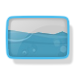
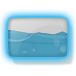
updated some images and deleted some old ones
disable the screen while saving wad to sd because idiots were misusing it and breaking shit

change the exit prompt so you can exit to HBC even if you didn't came from there

Changed region(s): [[0.0, 0.1316, 1.0, 0.8421]]

diff --git a/source/prompts/ProgressWindow.cpp b/source/prompts/ProgressWindow.cpp
@@ -24,6 +24,7 @@ static char progressMsg1[150];
 static char progressMsg2[150];
 static char progressTime[80];
 static char progressSizeLeft[80];
+static char progressSpeed[15];
 static int showProgress = 0;
 static f32 progressDone = 0.0;
 static bool showTime = false;
@@ -84,7 +85,9 @@ static void GameInstallProgress() {
     progressDone = 100.0*gameinstalldone/gameinstalltotal;
 
     snprintf(progressTime, sizeof(progressTime), "%s %d:%02d:%02d",tr("Time left:"),h,m,s);
-    snprintf(progressSizeLeft, sizeof(progressSizeLeft), "%.2fGB/%.2fGB %.1fMB/s", gamesize * gameinstalldone/gameinstalltotal, gamesize, speed);
+    snprintf(progressSizeLeft, sizeof(progressSizeLeft), "%.2fGB/%.2fGB", gamesize * gameinstalldone/gameinstalltotal, gamesize);
+	 snprintf(progressSpeed, sizeof(progressSpeed), "%.1fMB/s", speed);
+
 }
 
 /****************************************************************************
@@ -155,7 +158,7 @@ static void ProgressWindow(const char *title, const char *msg1, const char *msg2
 	titleTxt.SetAlignment(ALIGN_CENTRE, ALIGN_TOP);
 	titleTxt.SetPosition(0,60);
 
-	GuiText msg1Txt(msg1, 26, (GXColor){THEME.prompttxt_r, THEME.prompttxt_g, THEME.prompttxt_b, 255});
+	GuiText msg1Txt(msg1, 22, (GXColor){THEME.prompttxt_r, THEME.prompttxt_g, THEME.prompttxt_b, 255});
 	msg1Txt.SetAlignment(ALIGN_CENTRE, ALIGN_TOP);
 	if(msg2)
         msg1Txt.SetPosition(0,120);
@@ -163,22 +166,26 @@ static void ProgressWindow(const char *title, const char *msg1, const char *msg2
         msg1Txt.SetPosition(0,100);
 	msg1Txt.SetMaxWidth(430, GuiText::DOTTED);
 
-	GuiText msg2Txt(msg2, 26, (GXColor){THEME.prompttxt_r, THEME.prompttxt_g, THEME.prompttxt_b, 255});
+	GuiText msg2Txt(msg2, 22, (GXColor){THEME.prompttxt_r, THEME.prompttxt_g, THEME.prompttxt_b, 255});
 	msg2Txt.SetAlignment(ALIGN_CENTRE, ALIGN_TOP);
 	msg2Txt.SetPosition(0,125);
 	msg2Txt.SetMaxWidth(430, GuiText::DOTTED);
 
-    GuiText prsTxt("%", 26, (GXColor){THEME.prompttxt_r, THEME.prompttxt_g, THEME.prompttxt_b, 255});
+    GuiText prsTxt("%", 22, (GXColor){THEME.prompttxt_r, THEME.prompttxt_g, THEME.prompttxt_b, 255});
 	prsTxt.SetAlignment(ALIGN_RIGHT, ALIGN_MIDDLE);
 	prsTxt.SetPosition(-188,40);
 
-    GuiText timeTxt(NULL, 24, (GXColor){THEME.prompttxt_r, THEME.prompttxt_g, THEME.prompttxt_b, 255});
+    GuiText timeTxt(NULL, 22, (GXColor){THEME.prompttxt_r, THEME.prompttxt_g, THEME.prompttxt_b, 255});
     timeTxt.SetAlignment(ALIGN_LEFT, ALIGN_BOTTOM);
 	timeTxt.SetPosition(280,-50);
 
-    GuiText sizeTxt(NULL, 24, (GXColor){THEME.prompttxt_r, THEME.prompttxt_g, THEME.prompttxt_b, 255});
+    GuiText sizeTxt(NULL, 22, (GXColor){THEME.prompttxt_r, THEME.prompttxt_g, THEME.prompttxt_b, 255});
     sizeTxt.SetAlignment(ALIGN_LEFT, ALIGN_BOTTOM);
-	sizeTxt.SetPosition(35, -50);
+	sizeTxt.SetPosition(50, -50);
+
+	 GuiText speedTxt(NULL, 22, (GXColor){THEME.prompttxt_r, THEME.prompttxt_g, THEME.prompttxt_b, 255});
+    speedTxt.SetAlignment(ALIGN_LEFT, ALIGN_BOTTOM);
+	speedTxt.SetPosition(50, -74);
 
 	GuiText prTxt(NULL, 26, (GXColor){THEME.prompttxt_r, THEME.prompttxt_g, THEME.prompttxt_b, 255});
 	prTxt.SetAlignment(ALIGN_LEFT, ALIGN_MIDDLE);
@@ -195,6 +202,8 @@ static void ProgressWindow(const char *title, const char *msg1, const char *msg2
 
 		timeTxt.SetPosition(250,-50);
 		timeTxt.SetFontSize(20);
+		speedTxt.SetPosition(90,-74);
+		speedTxt.SetFontSize(20);
 		sizeTxt.SetPosition(90, -50);
 		sizeTxt.SetFontSize(20);
 	}
@@ -217,8 +226,10 @@ static void ProgressWindow(const char *title, const char *msg1, const char *msg2
 		promptWindow.Append(&msg2Txt);
 	if(showTime)
         promptWindow.Append(&timeTxt);
-    if(showSize)
+    if(showSize){
         promptWindow.Append(&sizeTxt);
+		  promptWindow.Append(&speedTxt);
+		  }
 
 	HaltGui();
 	promptWindow.SetEffect(EFFECT_SLIDE_TOP | EFFECT_SLIDE_IN, 50);
@@ -249,8 +260,10 @@ static void ProgressWindow(const char *title, const char *msg1, const char *msg2
 
         prTxt.SetTextf("%.2f", progressDone);
 
-        if(showSize)
+        if(showSize){
             sizeTxt.SetText(progressSizeLeft);
+				speedTxt.SetText(progressSpeed);
+				}
         if(showTime)
             timeTxt.SetText(progressTime);
 	}

diff --git a/source/homebrewboot/HomebrewBrowse.cpp b/source/homebrewboot/HomebrewBrowse.cpp
@@ -864,14 +864,47 @@ int MenuHomebrewBrowse()
 									//if we got a wad
 									if(strstr(tmptxt,".wad") || strstr(tmptxt,".WAD"))
 									{	
-										//what do we want to do with the wad
-										int pick = WindowPrompt(tr("Received:"), tmptxt, tr("Install"),tr("Uninstall"),tr("Cancel"));
-										//save that biatch to the wad folder	
+									
+									//make a window come up and say that we are saving this file
+									//because stupid people were clicking buttons while it was saving and tearing stuff up
+										GuiWindow promptWindow(472,320);
+										promptWindow.SetAlignment(ALIGN_CENTRE, ALIGN_MIDDLE);
+										promptWindow.SetPosition(0, -10);
+										//char imgPath[100];
+										snprintf(imgPath, sizeof(imgPath), "%sdialogue_box.png", CFG.theme_path);
+										GuiImageData dialogBox(imgPath, dialogue_box_png);
+										GuiImage dialogBoxImg(&dialogBox);
+										if (Settings.wsprompt == yes){
+										dialogBoxImg.SetWidescreen(CFG.widescreen);}
+										GuiText msgTxt(tr("Saving"), 20, (GXColor){THEME.prompttxt_r, THEME.prompttxt_g, THEME.prompttxt_b, 255});
+										msgTxt.SetAlignment(ALIGN_CENTRE, ALIGN_TOP);
+										msgTxt.SetPosition(0,100);
 										sprintf(tmptxt,"%s/wad/%s",bootDevice,filename);
+										GuiText msg2Txt(tmptxt, 26, (GXColor){THEME.prompttxt_r, THEME.prompttxt_g, THEME.prompttxt_b, 255});
+										msg2Txt.SetAlignment(ALIGN_CENTRE, ALIGN_TOP);
+										msg2Txt.SetPosition(0,130);
+										promptWindow.Append(&dialogBoxImg);
+										promptWindow.Append(&msgTxt);
+										promptWindow.Append(&msg2Txt);
+										HaltGui();
+										mainWindow->SetState(STATE_DISABLED);
+										mainWindow->Append(&promptWindow);
+										mainWindow->ChangeFocus(&promptWindow);
+										ResumeGui();
+
+									
+									
+										//what do we want to do with the wad
+										//save that biatch to the wad folder	
+										
 										FILE * file = fopen(tmptxt, "w");
 										fwrite (innetbuffer , 1 , infilesize , file );
 										fclose (file);
 										
+										HaltGui();
+										mainWindow->Remove(&promptWindow);
+										mainWindow->SetState(STATE_DEFAULT);
+										ResumeGui();
 										//get it out of the memory
 										FreeHomebrewBuffer();
 										
@@ -886,6 +919,7 @@ int MenuHomebrewBrowse()
 										rewind (file);
 										if(lSize==infilesize)
 											{
+											int pick = WindowPrompt(tr(" Wad Saved as:"), tmptxt, tr("Install"),tr("Uninstall"),tr("Cancel"));
 											//install or uninstall it
 											if (pick==1)Wad_Install(file);
 											if (pick==2)Wad_Uninstall(file);

diff --git a/source/menu.cpp b/source/menu.cpp
@@ -218,12 +218,15 @@ void ExitGUIThreads()
 	guithread = LWP_THREAD_NULL;
 }
 void rockout(int f = 0)
-{
+{	
+
+	if (f==2)gameSelected = -1;
 	char imgPath[100];
 	#ifdef HW_RVL
 	if(!(strcasestr(get_title(&gameList[gameSelected]),"guitar")||
 		strcasestr(get_title(&gameList[gameSelected]),"band")||
-		strcasestr(get_title(&gameList[gameSelected]),"rock"))){
+		strcasestr(get_title(&gameList[gameSelected]),"rock")||
+		f==1)){
 		for(int i = 0; i < 4; i++)
 			delete pointer[i];
 		snprintf(imgPath, sizeof(imgPath), "%splayer1_point.png", CFG.theme_path);
@@ -339,10 +342,11 @@ int MenuDiscList()
         GuiImageData btnhome(imgPath, menu_button_png);
         snprintf(imgPath, sizeof(imgPath), "%smenu_button_over.png", CFG.theme_path);
         GuiImageData btnhomeOver(imgPath, menu_button_over_png);
-        snprintf(imgPath, sizeof(imgPath), "%sSDcard.png", CFG.theme_path);
-        GuiImageData btnsdcard(imgPath, sdcard_png);
-		snprintf(imgPath, sizeof(imgPath), "%sSDcard_over.png", CFG.theme_path);
+        snprintf(imgPath, sizeof(imgPath), "%sSDcard_over.png", CFG.theme_path);
         GuiImageData btnsdcardOver(imgPath, sdcard_over_png);
+		  snprintf(imgPath, sizeof(imgPath), "%sSDcard.png", CFG.theme_path);
+        GuiImageData btnsdcard(imgPath, sdcard_png);
+
 
         snprintf(imgPath, sizeof(imgPath), "%sbattery.png", CFG.theme_path);
         GuiImageData battery(imgPath, battery_png);
@@ -1054,7 +1058,7 @@ int MenuDiscList()
                     snprintf (IDfull,sizeof(IDfull),"%c%c%c%c%c%c", header->id[0], header->id[1], header->id[2],header->id[3], header->id[4], header->id[5]);
 					choice = showGameInfo(IDfull);
                     gameInfo.ResetState();
-						  rockout(0);
+						  rockout(2);
 						  if (choice==2)
 							homeBtn.SetState(STATE_CLICKED);
                 }
@@ -1375,7 +1379,7 @@ int MenuDiscList()
                                         else if (Settings.gameDisplay==carousel){gameCarousel->SetFocus(1);}
                                 }
 										  //reset cursor
-										  rockout(0);
+										  rockout(2);
                         }
                 }
 			// to skip the first call of windowScreensaver at startup when wiimote is not connected

diff --git a/source/prompts/PromptWindows.cpp b/source/prompts/PromptWindows.cpp
@@ -789,7 +789,7 @@ WindowExitPrompt(const char *title, const char *msg, const char *btn1Label,
 	GuiButton btn1(&btn1Img,&btn1OverImg, 0, 3, 0, 0, &trigA, &btnSoundOver, &btnClick,0);
 	btn1.SetEffect(EFFECT_SLIDE_TOP | EFFECT_SLIDE_IN, 50);
 
-	GuiText btn2Txt(btn1Label, 28, (GXColor){0, 0, 0, 255});
+	GuiText btn2Txt((HBC!=1?"Homebrew Channel":btn1Label), 28, (GXColor){0, 0, 0, 255});
 	GuiImage btn2Img(&button);
 	if (Settings.wsprompt == yes){
 	btn2Txt.SetWidescreen(CFG.widescreen);
@@ -811,8 +811,7 @@ WindowExitPrompt(const char *title, const char *msg, const char *btn1Label,
 	btn3.SetLabel(&btn3Txt);
 	btn3.SetEffect(EFFECT_SLIDE_RIGHT | EFFECT_SLIDE_IN, 50);
 	btn3.SetRumble(false);
-	if (HBC==1){btn3.SetPosition(150, 0);}
-	else {btn3.SetPosition(0,0);}
+	btn3.SetPosition(150, 0);
 
 	GuiImage btn4Img(&bottom);
 	GuiImage btn4OverImg(&bottomOver);
@@ -827,7 +826,7 @@ WindowExitPrompt(const char *title, const char *msg, const char *btn1Label,
 	wiimoteImg.SetEffect(EFFECT_SLIDE_BOTTOM | EFFECT_SLIDE_IN, 50);
 	wiimoteImg.SetPosition(50,210);
 
-	if (HBC==1){promptWindow.Append(&btn2);}
+	promptWindow.Append(&btn2);
     promptWindow.Append(&btn3);
     promptWindow.Append(&btn4);
     promptWindow.Append(&btn1);
@@ -906,7 +905,16 @@ WindowExitPrompt(const char *title, const char *msg, const char *btn1Label,
 		else if(btn2.GetState() == STATE_CLICKED) {
             ret = WindowPrompt(tr("Are you sure?"), 0, tr("Yes"), tr("No"));
 			if (ret == 1) {
-			choice = 2;
+				if (HBC!=1)
+				{
+					CloseXMLDatabase();
+					ExitGUIThreads();
+					ShutdownAudio();
+					StopGX();
+					WII_Initialize();
+					WII_LaunchTitle(TITLE_ID(0x00010001,0x48415858));
+				}
+				choice = 2;
 			}
 			HaltGui();
             mainWindow->SetState(STATE_DISABLED);

diff --git a/source/filelist.h b/source/filelist.h
@@ -26,6 +26,9 @@ extern const u32	gxlogo_png_size;
 extern const u8		sdcard_png[];
 extern const u32	sdcard_png_size;
 
+extern const u8		sdcard_over_png[];
+extern const u32	sdcard_over_png_size;
+
 extern const u8     Wifi_btn_png[];
 extern const u32    Wifi_btn_png_size;
 
@@ -471,8 +474,5 @@ extern const u32	pegi_16_png_size;
 
 extern const u8		pegi_18_png[];
 extern const u32	pegi_18_png_size;
-
-extern const u8		ocarina_png[];
-extern const u32	ocarina_png_size;
 
 #endif

diff --git a/source/prompts/TitleBrowser.cpp b/source/prompts/TitleBrowser.cpp
@@ -133,7 +133,7 @@ int TitleBrowser(u32 type)
 				//set the text to the option browser
 				options3.SetName(i, "%s",text);
 				options3.SetValue(i, "%s",name);
-				//options3.SetValue(i, " (%08x)",titles[i]);
+				//options3.SetValue(i, " (%08x)",titles[i]);//use this line to show the number to call to launch the channel
 				//move on to the next title
 				i++;
 			}

diff --git a/source/svnrev.c b/source/svnrev.c
@@ -1,4 +1,4 @@
-#define SVN_REV "664M"
+#define SVN_REV "667M"
 
 const char *GetRev()
 { 
